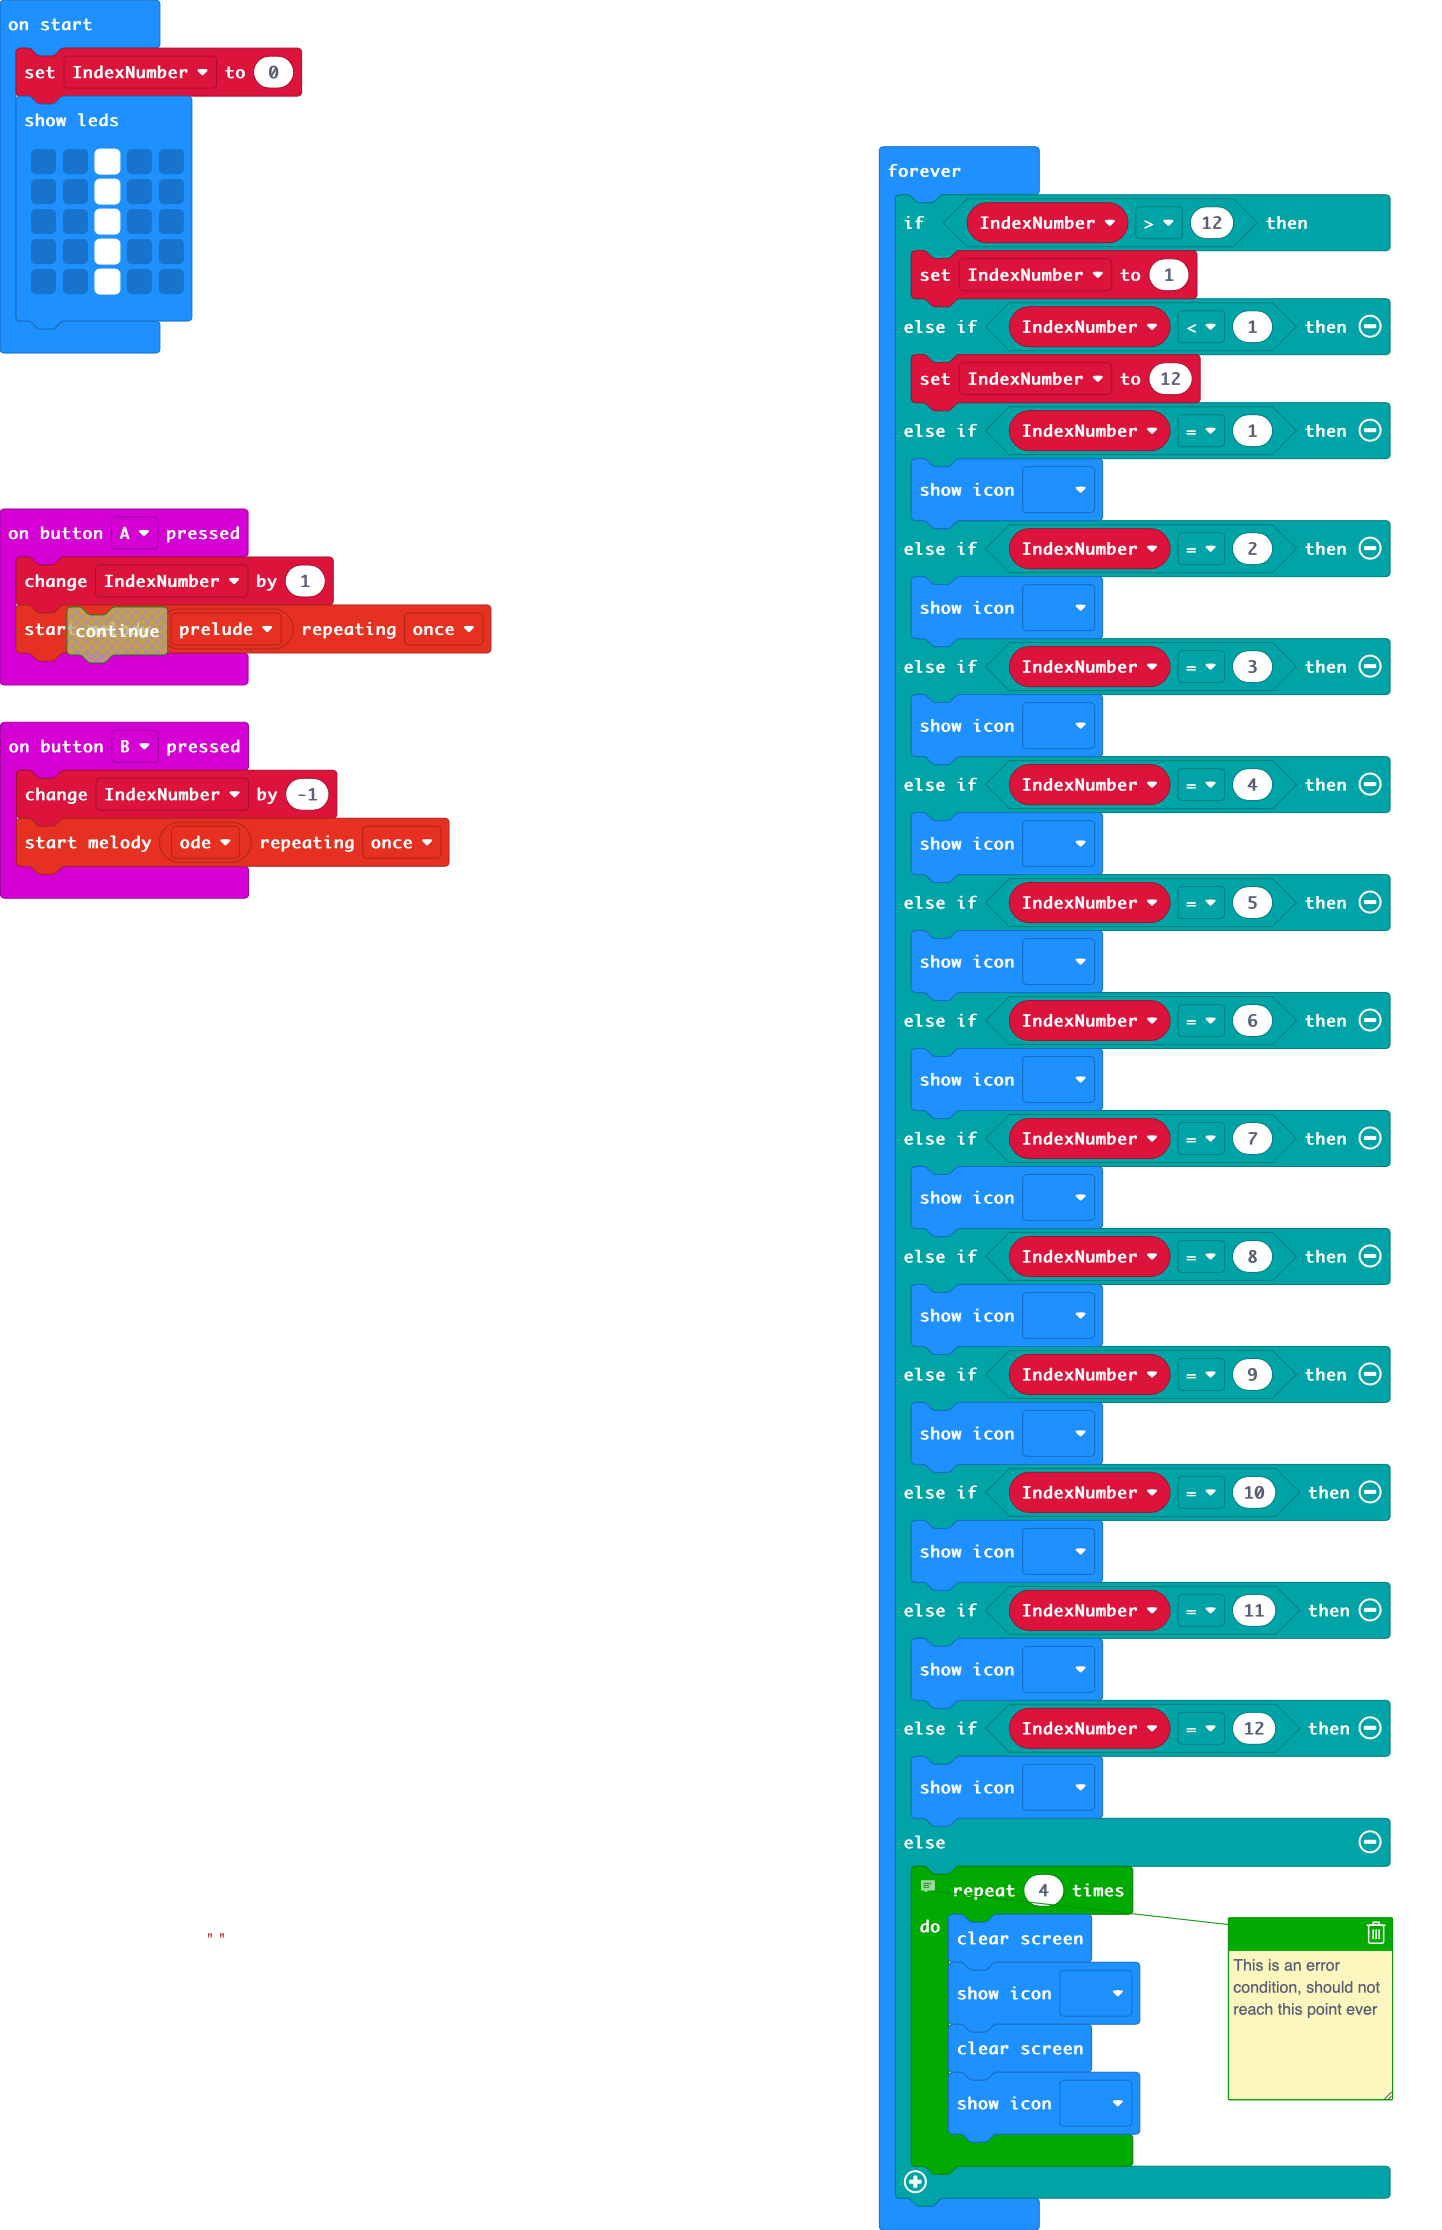
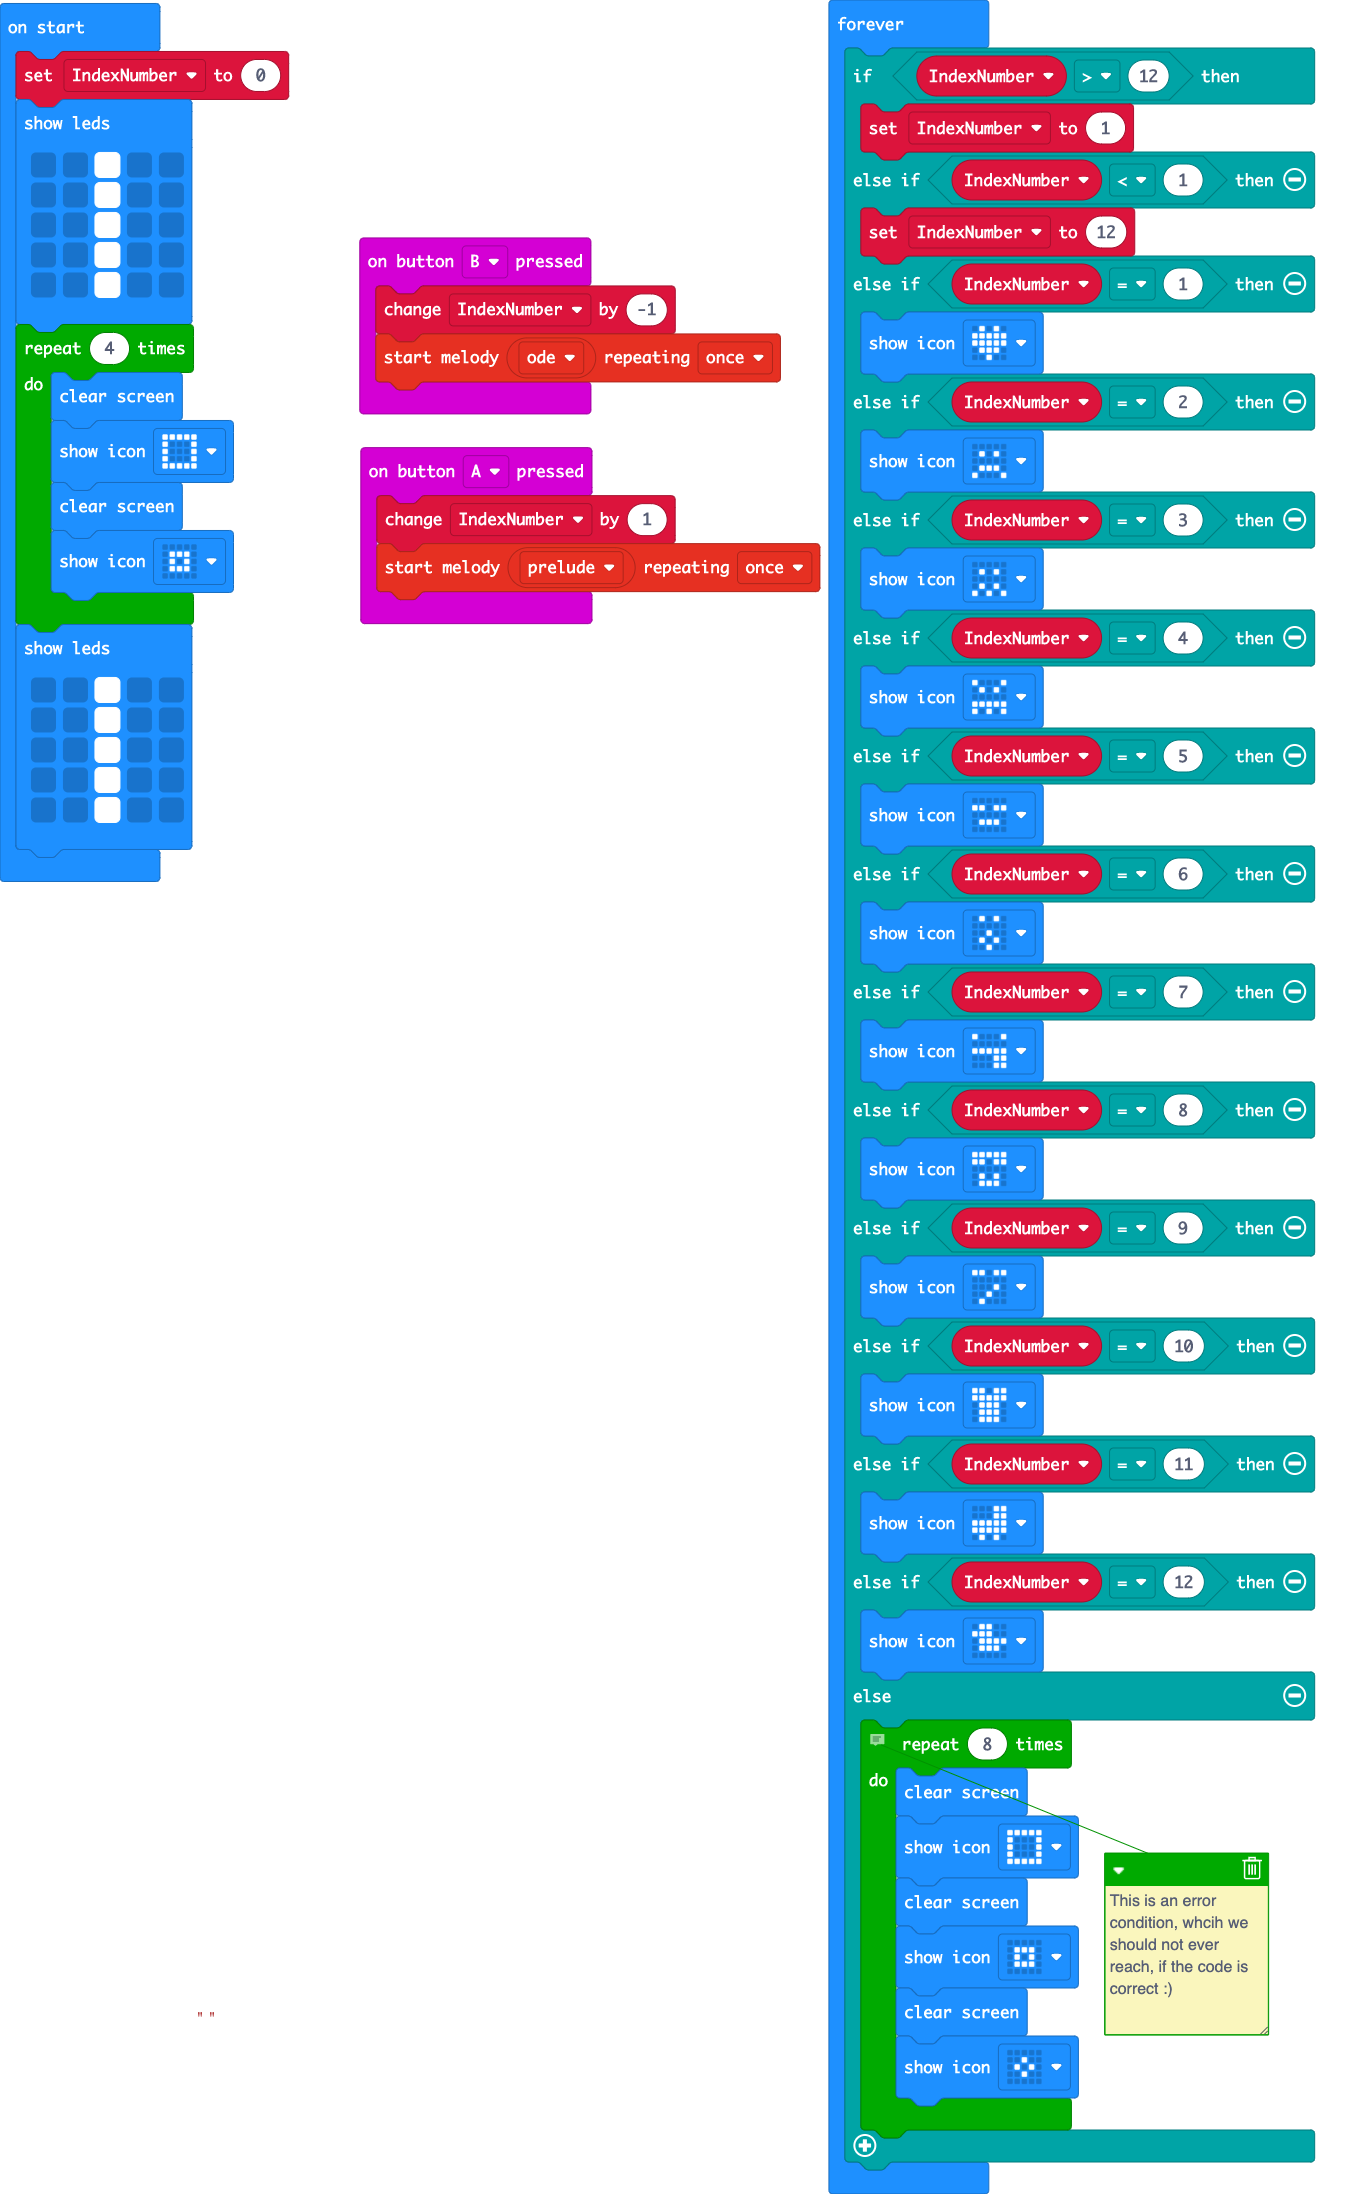
added animated startup, changed "error" state flash

Changed region(s): [[0.0, 0.0, 0.9832, 1.0], [0.7067, 0.9918, 0.7374, 1.0]]

diff --git a/main.ts b/main.ts
@@ -14,6 +14,19 @@ basic.showLeds(`
     . . # . .
     . . # . .
     `)
+for (let index = 0; index < 4; index++) {
+    basic.clearScreen()
+    basic.showIcon(IconNames.Square)
+    basic.clearScreen()
+    basic.showIcon(IconNames.SmallSquare)
+}
+basic.showLeds(`
+    . . # . .
+    . . # . .
+    . . # . .
+    . . # . .
+    . . # . .
+    `)
 basic.forever(function () {
     if (IndexNumber > 12) {
         IndexNumber = 1
@@ -44,12 +57,14 @@ basic.forever(function () {
     } else if (IndexNumber == 12) {
         basic.showIcon(IconNames.Duck)
     } else {
-        // This is an error condition, should not reach this point ever 
-        for (let index = 0; index < 4; index++) {
+        // This is an error condition, whcih we should not ever reach, if the code is correct :) 
+        for (let index = 0; index < 8; index++) {
             basic.clearScreen()
             basic.showIcon(IconNames.Square)
             basic.clearScreen()
             basic.showIcon(IconNames.SmallSquare)
+            basic.clearScreen()
+            basic.showIcon(IconNames.SmallDiamond)
         }
     }
 })
